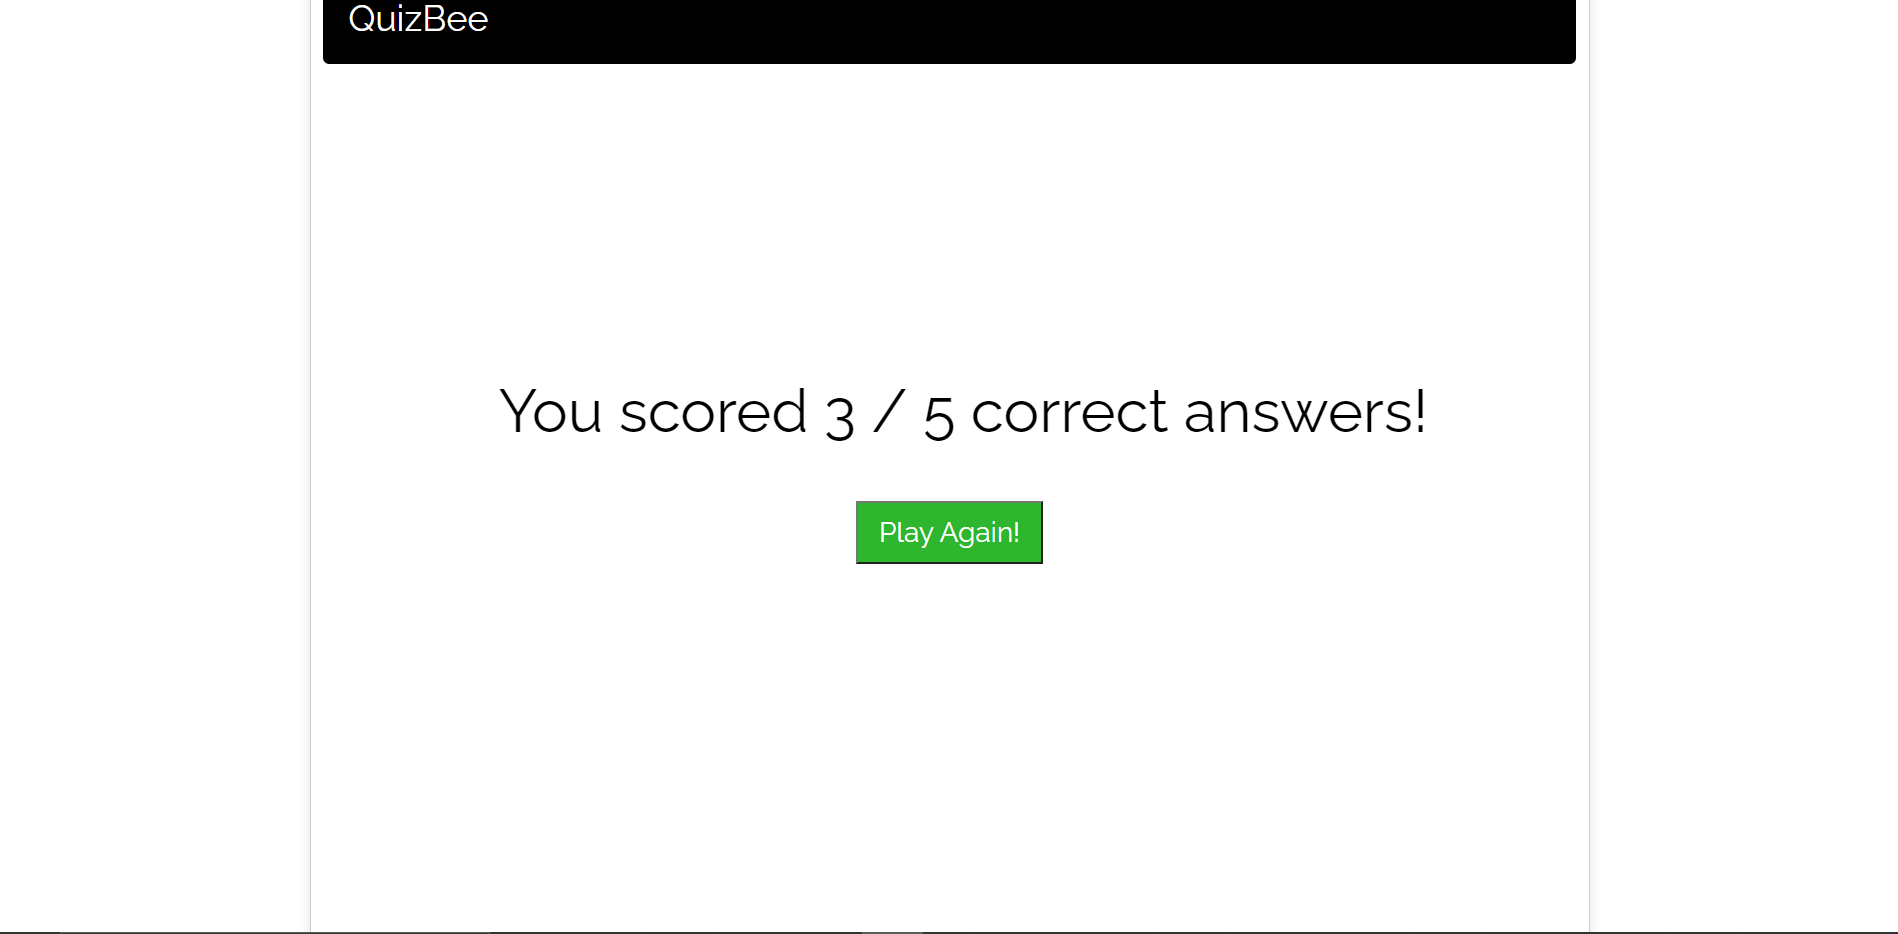
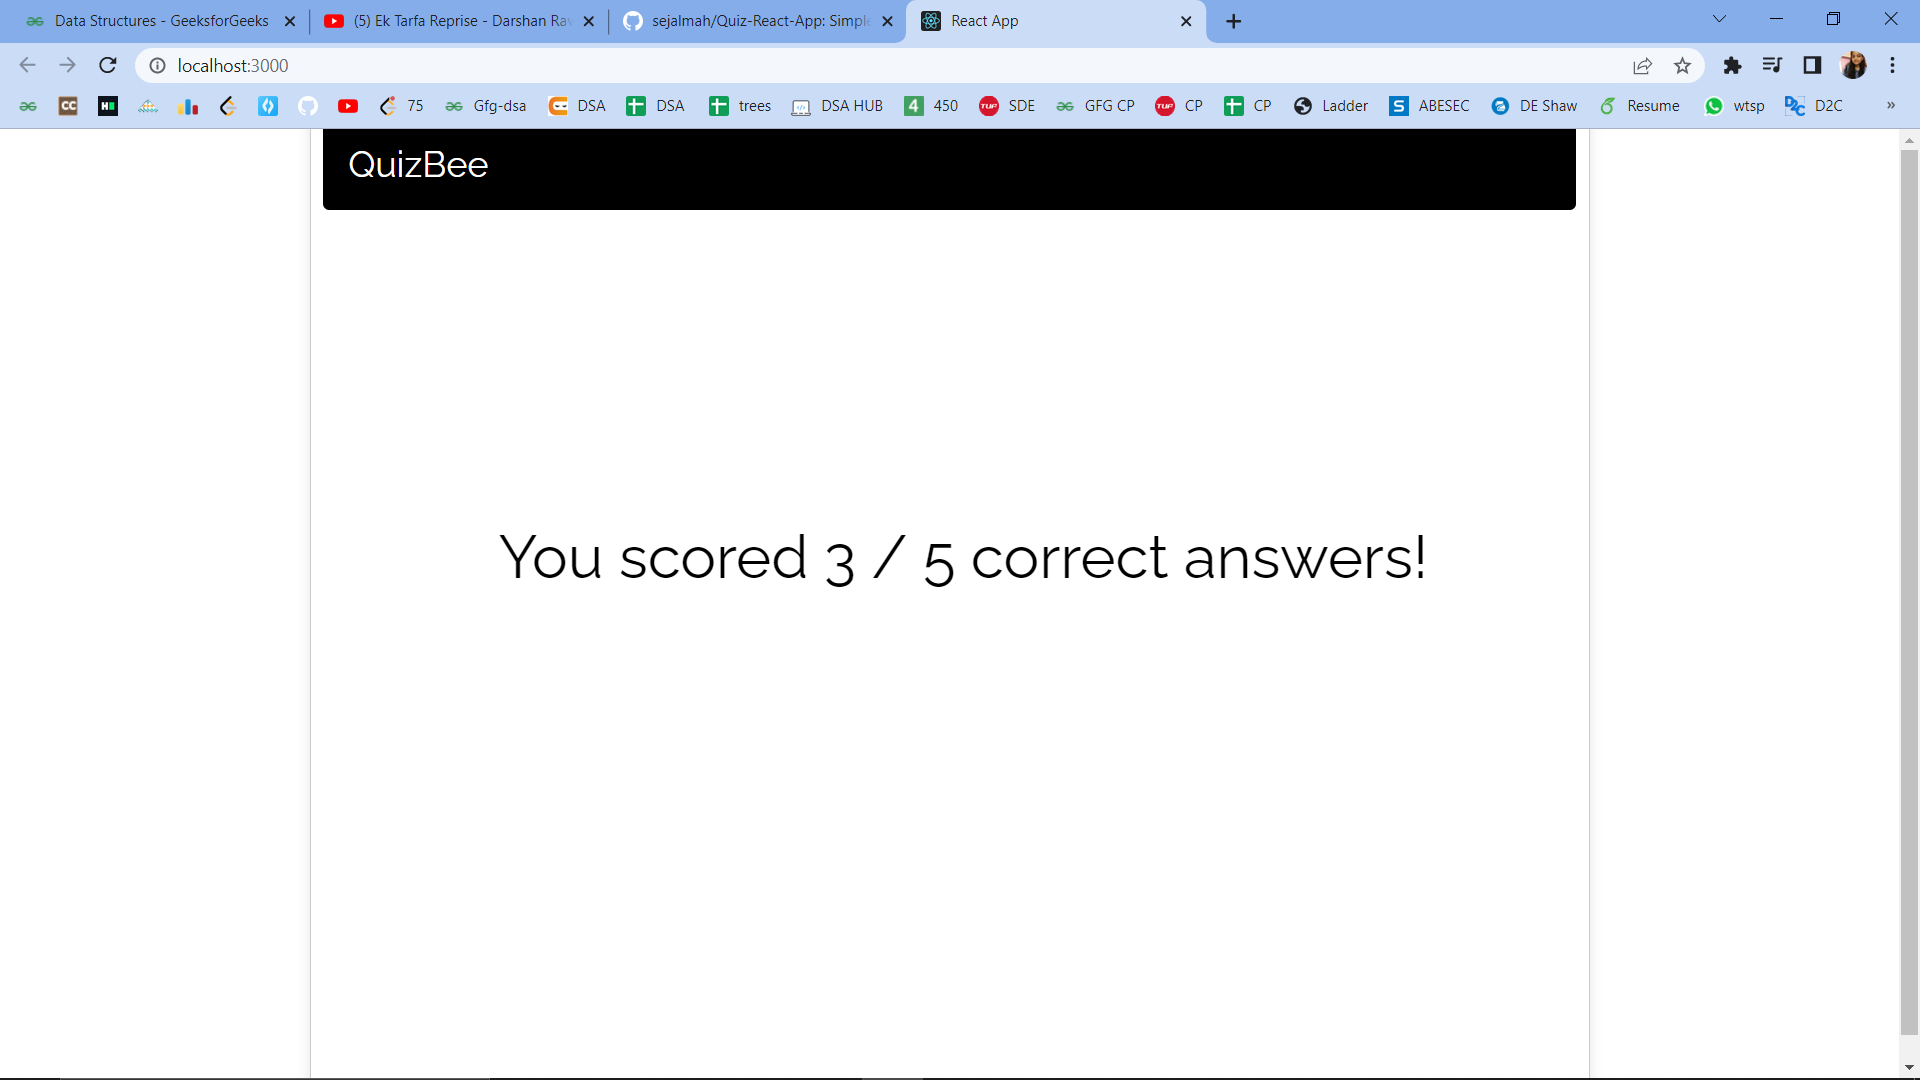
change

diff --git a/quizbee/src/index.js b/quizbee/src/index.js
@@ -57,7 +57,7 @@ class QuizBee extends Component {
                    )
                )}
 
-               {this.state.responses===5 ? (<Result score={this.state.score} playAgain={this.state.playAgain}/>) : null }
+               {this.state.responses===5 ? (<Result score={this.state.score} />) : null }
             </div>
         );
         }  

diff --git a/quizbee/src/components/Result.js b/quizbee/src/components/Result.js
@@ -3,7 +3,6 @@ import React from "react";
 const Result =({score,playAgain}) =>(
     <div className="score-board">
         <div className="score">You scored {score} / 5 correct answers!</div>
-        <button className = 'playBtn' onClick = {playAgain}>Play Again!</button>
     </div>
 );
 
